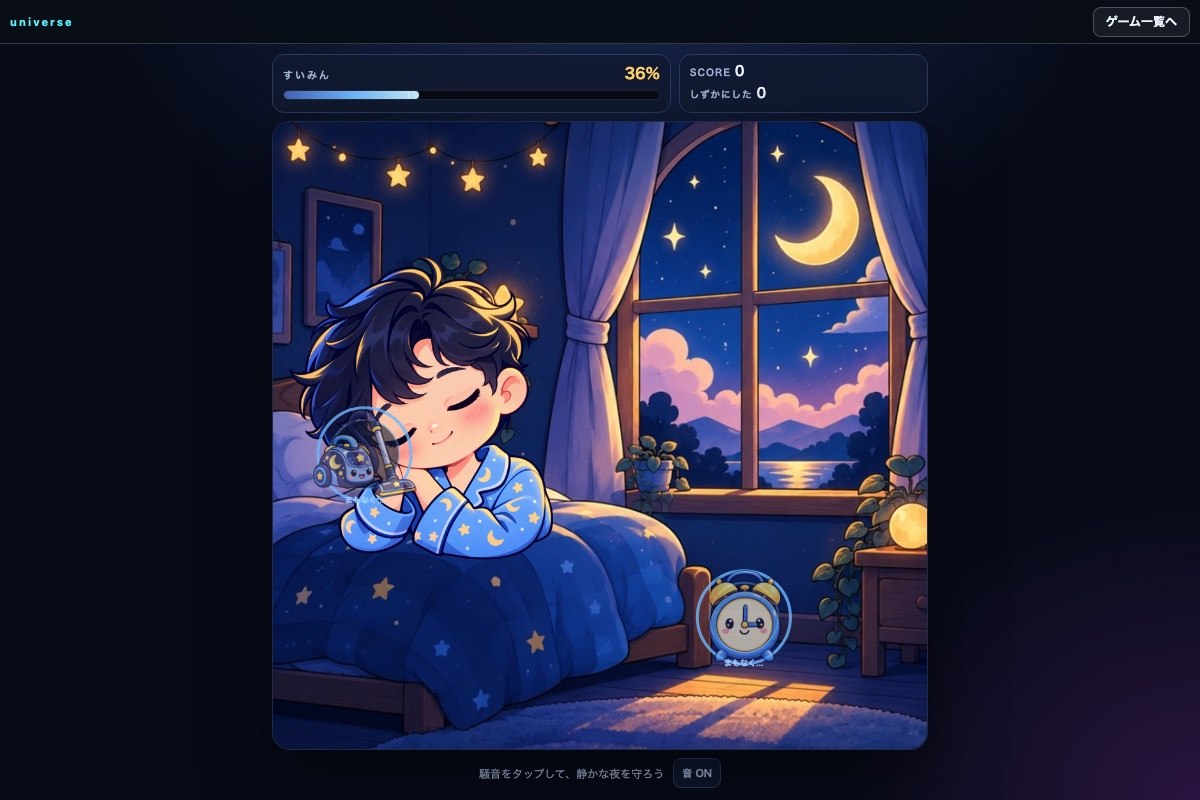
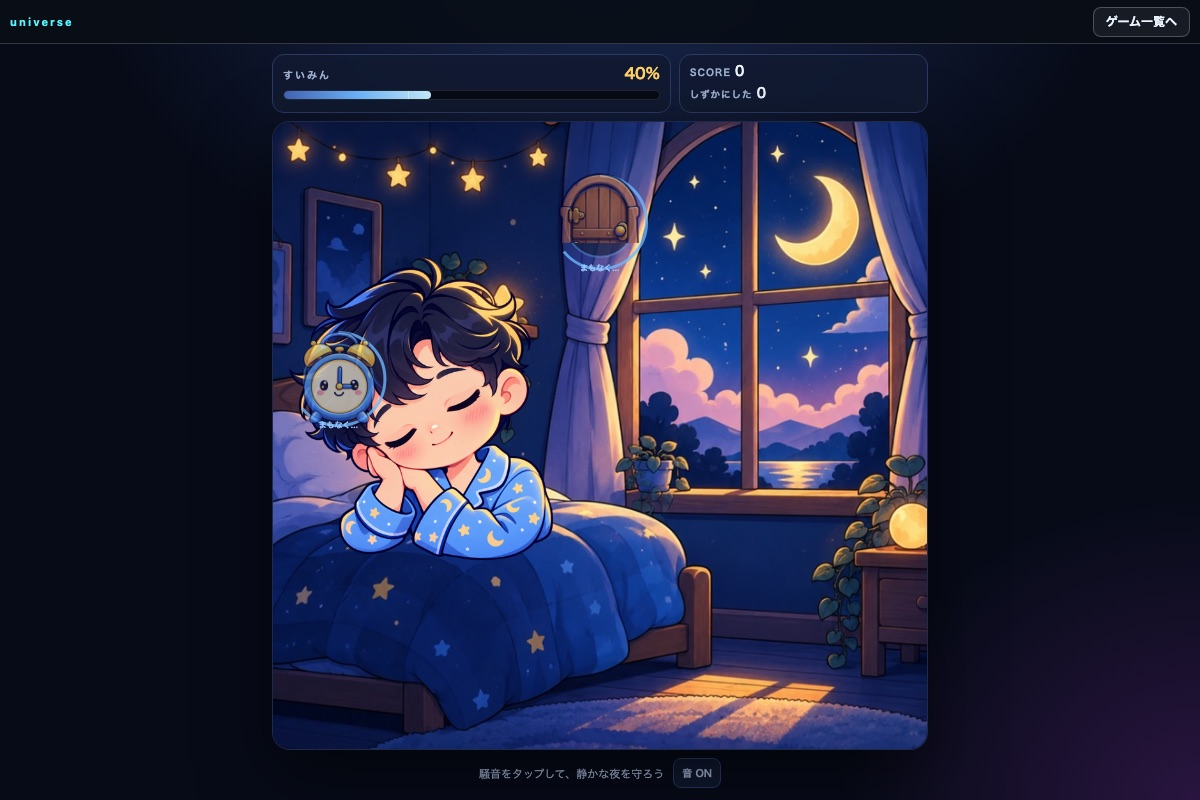
fix: 猶予カウントダウンとキャッシュバスターを修正

diff --git a/projects/_labs/sleep-guard/index.html b/projects/_labs/sleep-guard/index.html
@@ -5,7 +5,7 @@
   <meta name="viewport" content="width=device-width, initial-scale=1, viewport-fit=cover">
   <meta name="theme-color" content="#080d1c">
   <title>ねむりのまもり - 睡眠防衛ゲーム</title>
-  <link rel="stylesheet" href="style.css?v=20261030">
+  <link rel="stylesheet" href="style.css?v=20261030b">
 </head>
 <body>
   <div id="app">
@@ -61,9 +61,9 @@
     </footer>
   </div>
 
-  <script src="audio.js?v=20261030"></script>
-  <script src="engine.js?v=20261030"></script>
-  <script src="game.js?v=20261030"></script>
+  <script src="audio.js?v=20261030b"></script>
+  <script src="engine.js?v=20261030b"></script>
+  <script src="game.js?v=20261030b"></script>
   <script src="../../_shared/game-back.js"></script>
 </body>
 </html>

diff --git a/projects/_labs/sleep-guard/test-engine.js b/projects/_labs/sleep-guard/test-engine.js
@@ -35,7 +35,7 @@ for (i = 0; i < 30 && g.noises.length === 0; i++) E.update(g, 0.1);
 assert(g.noises.length > 0 && g.noises[0].active === false, '出現直後はまだ鳴っていない');
 var graceSleep = g.sleep;
 for (i = 0; i < 15; i++) E.update(g, 0.05);
-assert(g.noises[0].active === false && g.sleep === graceSleep, '2秒前はゲージが減らない');
+assert(g.noises[0].active === false && g.sleep > graceSleep, '2秒前はゲージが減らない（静穏ゲージは増える）');
 for (i = 0; i < 30; i++) E.update(g, 0.05);
 assert(g.noises[0].active === true, '2秒後に騒音が鳴り始める');
 var afterActive = g.sleep;

diff --git a/projects/_labs/sleep-guard/engine.js b/projects/_labs/sleep-guard/engine.js
@@ -30,7 +30,7 @@
 
   var SLOTS = [
     { x: 0.16, y: 0.27 }, { x: 0.84, y: 0.27 },
-    { x: 0.14, y: 0.53 }, { x: 0.86, y: 0.53 },
+    { x: 0.10, y: 0.41 }, { x: 0.88, y: 0.50 },
     { x: 0.28, y: 0.79 }, { x: 0.72, y: 0.79 },
     { x: 0.5, y: 0.16 }
   ];
@@ -142,10 +142,11 @@
       }
     }
 
-    if (state.noises.length === 0) {
+    var drain = activeDrain(state);
+    if (drain === 0) {
       state.sleep += QUIET_GAIN * dt;
     } else {
-      state.sleep -= activeDrain(state) * dt;
+      state.sleep -= drain * dt;
     }
     state.sleep = clamp(state.sleep, 0, MAX_SLEEP);
 

diff --git a/projects/_labs/sleep-guard/game.js b/projects/_labs/sleep-guard/game.js
@@ -395,7 +395,8 @@
       ctx.stroke();
       ctx.globalAlpha = 1;
     } else {
-      var progress = 1 - clamp((noise.activeIn || 0) / E.NOISE_GRACE, 0, 1);
+      var remaining = Math.max(0, (noise.activeAt || 0) - (state ? state.time : time));
+      var progress = 1 - clamp(remaining / E.NOISE_GRACE, 0, 1);
       ctx.strokeStyle = 'rgba(109,183,255,.8)';
       ctx.lineWidth = 3;
       ctx.beginPath();

diff --git a/projects/_labs/sleep-guard/README.md b/projects/_labs/sleep-guard/README.md
@@ -5,6 +5,7 @@
 ## 遊び方
 
 - 部屋に現れる騒音オブジェクトをタップ / クリックして静める
+- 騒音は出現から2秒後に鳴り始める。それまではカウントダウン表示
 - 静かな時間が続くと睡眠ゲージが増える
 - 騒音を放置するとゲージが減る
 - ゲージがMAXならクリア、0なら「眠れ無ーーい！」でゲームオーバー
@@ -46,7 +47,7 @@ jsc test-smoke.js
 ## 音と画像
 
 - BGMはBPM72の静かなループ。開始時に再生し、終了時に停止
-- 騒音出現・タップ・クリア・ゲームオーバーに効果音
+- 騒音が鳴り始める時・タップ・クリア・ゲームオーバーに効果音
 - 右下の「音 ON/OFF」で切り替え、設定はlocalStorageに保存
 - 背景・キャラクター・騒音アイコンは `assets/` の画像を使用
 - 騒音アイコンは2フレームのスプライトシートをループ再生
